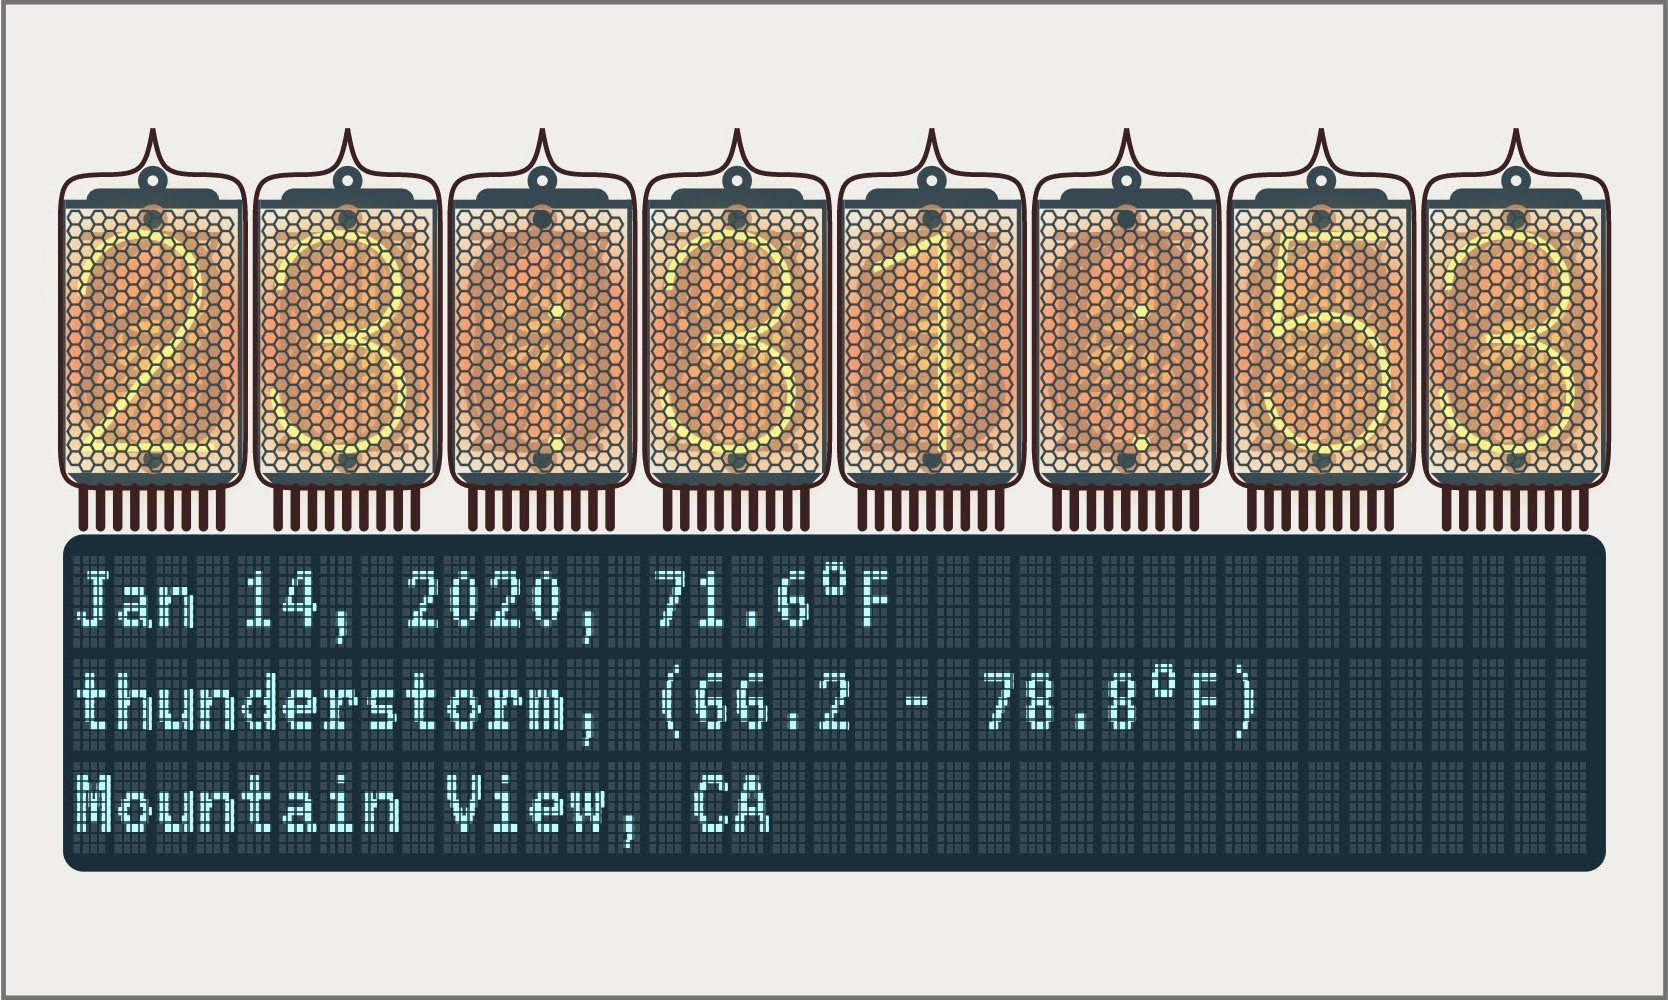
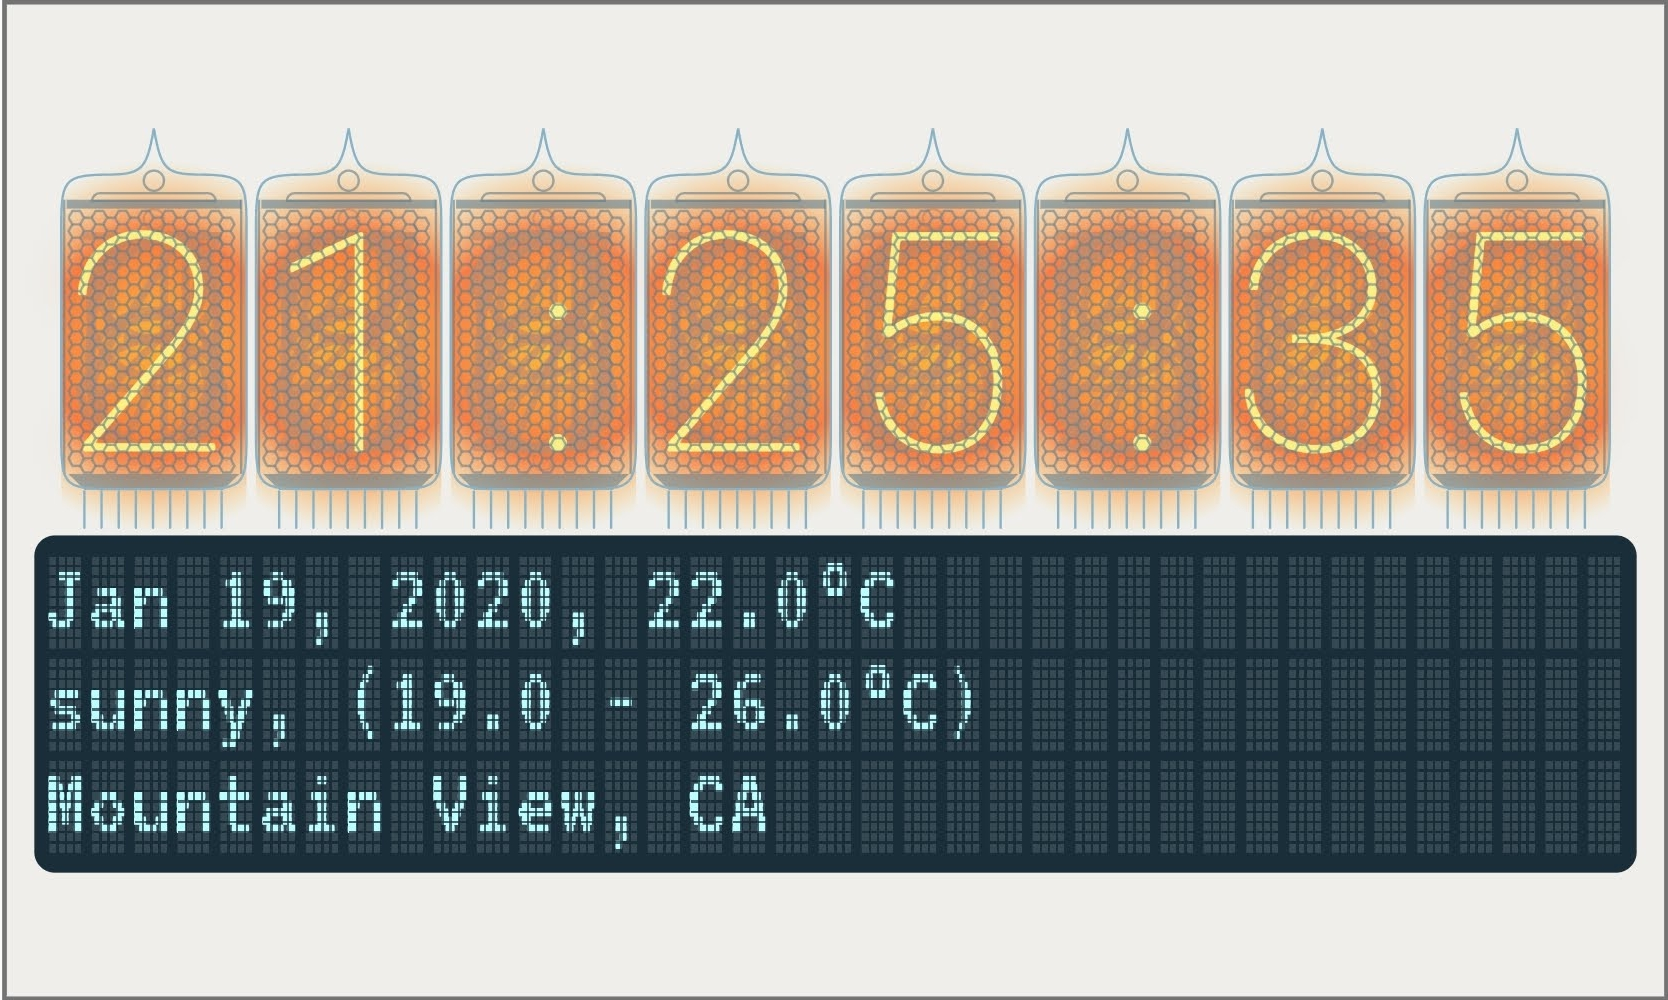
Update README and screenshots

diff --git a/README.md b/README.md
@@ -4,6 +4,7 @@ Nixie Clock is a clock inspired by DIY Nixie tube clocks sprinkled with a retro 
 See a [live demo](https://csabaconsulting.github.io/flutter_clock) with Flutter for Web (best viewed with Chrome, Firefox has horizontal sizing differences in the NixieTube)!
 Check out [my blog](https://csaba.page/blog/) about details and motivations of this project.
 
-<img src='https://github.com/CsabaConsulting/flutter_clock/blob/gh-pages/nixie_light.jpg' width='350'>
+<img src='https://github.com/CsabaConsulting/flutter_clock/blob/gh-pages/nixie_light.jpg' width='800'>
+<img src='https://github.com/CsabaConsulting/flutter_clock/blob/gh-pages/nixie_dark.jpg' width='800'>
 
 It is developed for the Google Flutter Clock contest, see [flutter.dev/clock](https://flutter.dev/clock) for more info.
